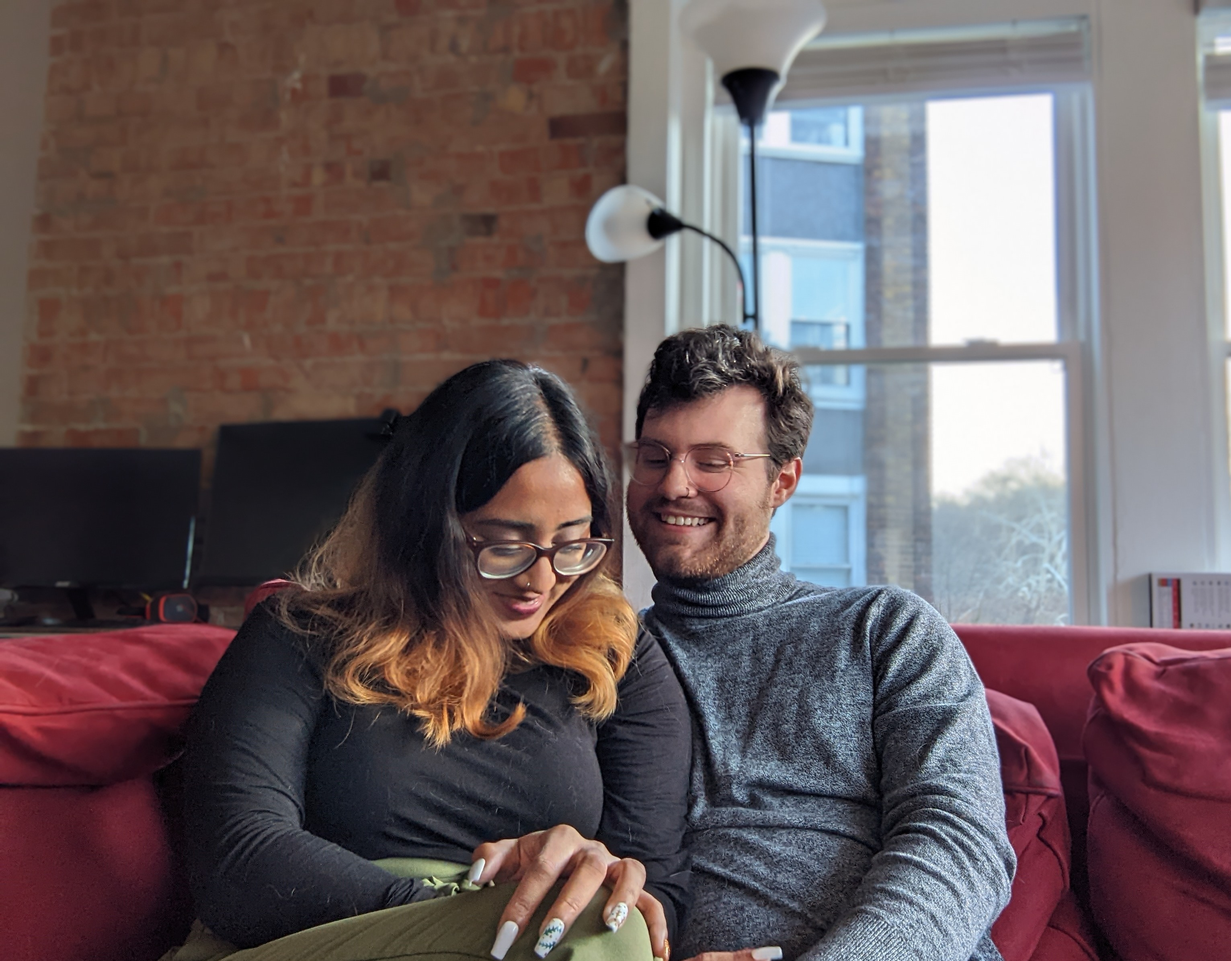
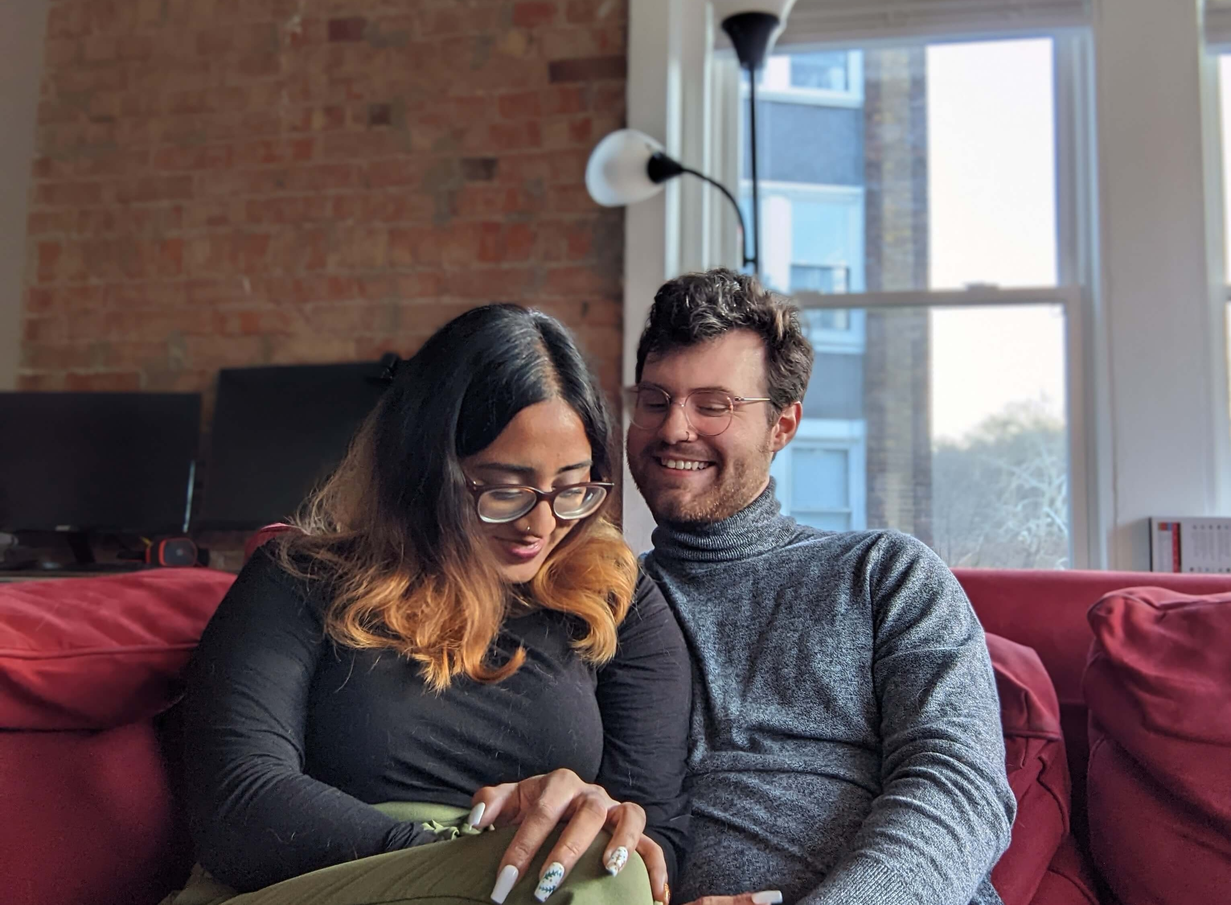
compressed images and added wave border

diff --git a/src/CSS/Story.css b/src/CSS/Story.css
@@ -21,19 +21,23 @@
 .bg-image-story {
   position: absolute;
   top: 0;
-  height: 75vh;
+  height: 85vh;
   width: 100%;
   background: linear-gradient(
     rgba(0, 0, 0, .5), 
     rgba(0, 0, 0, .3), 
     rgba(0, 0, 0, .3)
-  ),url('../assets/images/story.JPG'); /* Replace 'path/to/your-image.jpg' with the actual path to your image */
+  ),url('../assets/images/story.jpg'); /* Replace 'path/to/your-image.jpg' with the actual path to your image */
   background-size: cover; /* Cover the entire container with the background image */
   background-position: center; /* Center the background image horizontally and vertically */
   background-repeat: no-repeat; /* Prevent background image from repeating */
   color: #ffffff; /* Optional: Set text color for better visibility */
-  border-bottom: rgb(231, 179, 38) 9px double;
-}
+  --mask:
+  radial-gradient(122.98px at 50% calc(100% - 165.00px),#000 99%,#0000 101%) calc(50% - 110px) 0/220px 100%,
+  radial-gradient(122.98px at 50% calc(100% + 110.00px),#0000 99%,#000 101%) 50% calc(100% - 55px)/220px 100% repeat-x;
+  -webkit-mask: var(--mask);
+          mask: var(--mask);
+  }
 
 .content {
     margin: 50px;

diff --git a/src/CSS/Information.css b/src/CSS/Information.css
@@ -21,18 +21,22 @@
 .bg-image-information {
   position: absolute;
   top: 0;
-  height: 75vh;
+  height: 85vh;
   width: 100%;
   background: linear-gradient(
     rgba(0, 0, 0, .5), 
     rgba(0, 0, 0, .3), 
     rgba(0, 0, 0, .3)
-  ),url('../assets/images/information.JPG'); /* Replace 'path/to/your-image.jpg' with the actual path to your image */
+  ),url('../assets/images/information.jpg'); /* Replace 'path/to/your-image.jpg' with the actual path to your image */
   background-size: cover; /* Cover the entire container with the background image */
   background-position: center; /* Center the background image horizontally and vertically */
   background-repeat: no-repeat; /* Prevent background image from repeating */
   color: #ffffff; /* Optional: Set text color for better visibility */
-  border-bottom: rgb(231, 179, 38) 9px double;
+  --mask:
+  radial-gradient(122.98px at 50% calc(100% - 165.00px),#000 99%,#0000 101%) calc(50% - 110px) 0/220px 100%,
+  radial-gradient(122.98px at 50% calc(100% + 110.00px),#0000 99%,#000 101%) 50% calc(100% - 55px)/220px 100% repeat-x;
+  -webkit-mask: var(--mask);
+        mask: var(--mask);
 }
 
 .content {

diff --git a/src/CSS/Gallery.css b/src/CSS/Gallery.css
@@ -21,18 +21,22 @@
 .bg-image-gallery {
   position: absolute;
   top: 0;
-  height: 75vh;
+  height: 85vh;
   width: 100%;
   background: linear-gradient(
     rgba(0, 0, 0, .5), 
     rgba(0, 0, 0, .3), 
     rgba(0, 0, 0, .3)
-  ),url('../assets/images/gallery.JPG'); /* Replace 'path/to/your-image.jpg' with the actual path to your image */
+  ),url('../assets/images/gallery.jpg'); /* Replace 'path/to/your-image.jpg' with the actual path to your image */
   background-size: cover; /* Cover the entire container with the background image */
   background-position: center; /* Center the background image horizontally and vertically */
   background-repeat: no-repeat; /* Prevent background image from repeating */
   color: #ffffff; /* Optional: Set text color for better visibility */
-  border-bottom: rgb(231, 179, 38) 9px double;
+  --mask:
+  radial-gradient(122.98px at 50% calc(100% - 165.00px),#000 99%,#0000 101%) calc(50% - 110px) 0/220px 100%,
+  radial-gradient(122.98px at 50% calc(100% + 110.00px),#0000 99%,#000 101%) 50% calc(100% - 55px)/220px 100% repeat-x;
+  -webkit-mask: var(--mask);
+        mask: var(--mask);
 }
 
 .content {

diff --git a/src/index.css b/src/index.css
@@ -10,20 +10,6 @@
   --Garamond: 'Cormorant Garamond', serif;
 }
 
-/* LIGHT THEME */
-.light-theme {
-  --primary: var(--pink);
-  --secondary: var(--light);
-  --accent1: var(--green);
-  --accent2: var(--purple);
-  --accent3: var(--grey);
-}
-
-.light-theme hr {
-  border-top: .5px solid var(--accent1);
-  margin: 0px;
-}
-
 body {
   margin: 0;
   font-family: -apple-system, BlinkMacSystemFont, 'Segoe UI', 'Roboto', 'Oxygen',
@@ -97,7 +83,7 @@ hr {
 .nav-item {
   color: var(--secondary);
   font-family: var(--Garamond) !important;
-  font-size: 15px !important;
+  font-size: 17px !important;
   transition: .2s ease-in-out;
   text-transform: uppercase;
   letter-spacing: 2px;

diff --git a/src/CSS/Home.css b/src/CSS/Home.css
@@ -15,7 +15,7 @@
     rgba(0, 0, 0, .5), 
     rgba(0, 0, 0, .3), 
     rgba(0, 0, 0, .3)
-  ),url('../assets/images/home.jpeg'); /* Replace 'path/to/your-image.jpg' with the actual path to your image */
+  ),url('../assets/images/home.jpg'); /* Replace 'path/to/your-image.jpg' with the actual path to your image */
   background-size: cover; /* Cover the entire container with the background image */
   background-position: center; /* Center the background image horizontally and vertically */
   background-repeat: no-repeat; /* Prevent background image from repeating */

diff --git a/src/JS/components/Story.js b/src/JS/components/Story.js
@@ -13,6 +13,8 @@ function Story() {
         </div>
       </div>
 
+      <div class="box"></div>
+
       <div className="content">
           <p>❤ Coming soon! ❤</p>
       </div>

diff --git a/src/JS/components/Home.js b/src/JS/components/Home.js
@@ -1,7 +1,6 @@
 import '../../CSS/Home.css';
 
 function Home() {
-    console.log("HERE")
   return (
     <div className="Home">
       <div className="bg-image">
